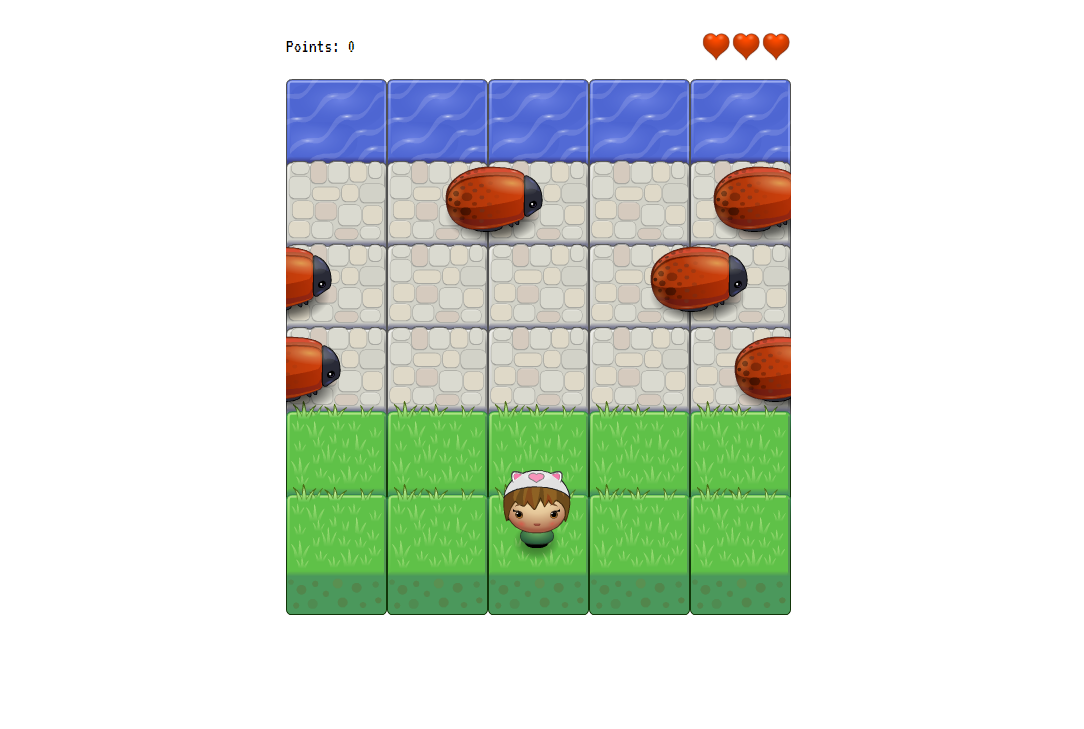
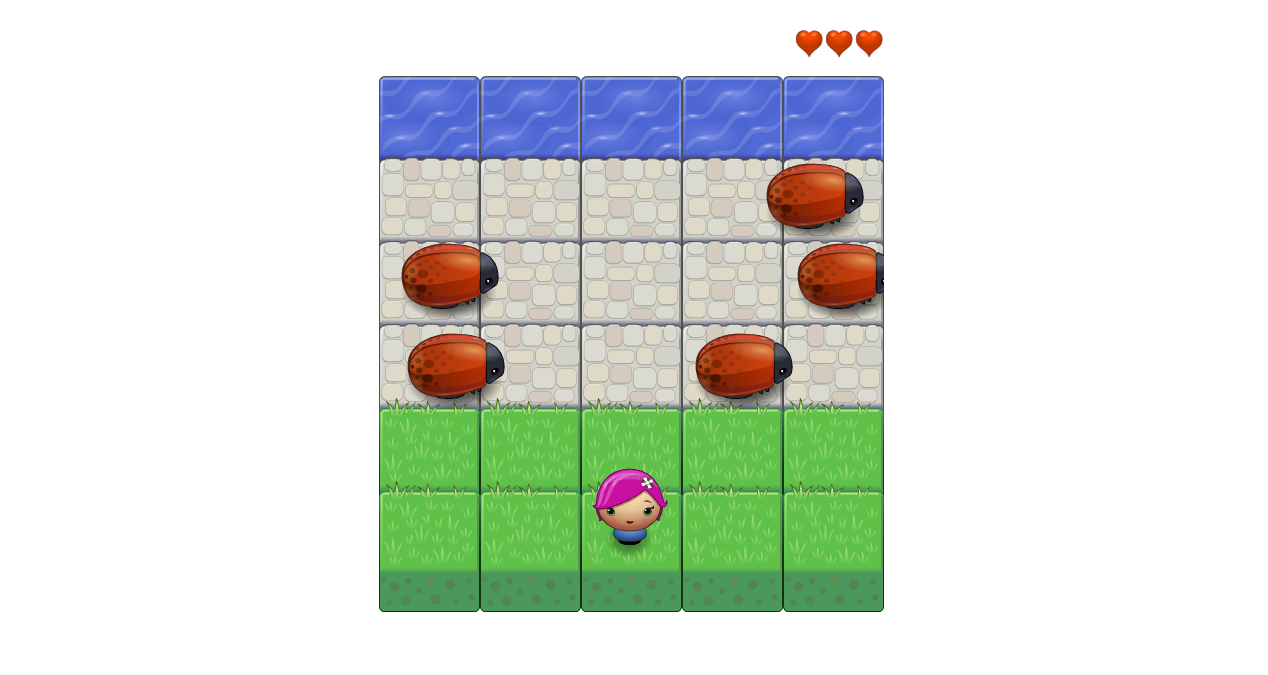
add char selection

Changed region(s): [[0.2435, 0.0311, 0.7306, 0.9333]]

diff --git a/js/app.js b/js/app.js
@@ -1,9 +1,4 @@
-// Points
-let displayScore = document.querySelector('.score');
-let score = 0;
-displayScore.innerText = 'Points: ' + score;
-
-//   -------------------------- ENEMIES ------------------------------
+//   -------------------------- ENEMIES ---------------------------
 
 var Enemy = function(x, y) {
     // Variables applied to each of our instances go here
@@ -35,8 +30,6 @@ Enemy.prototype.update = function(dt) {
        this.y < player.y + 60 &&
        this.y + 40 > player.y) {
         player.lives -= 1;
-//        gems = [];
-// the gems array should be empty if the player get bitten by bugs
 		player.reset(); // the position
         gems.reset();   //  their random position
     }
@@ -51,7 +44,7 @@ Enemy.prototype.render = function() {
     ctx.drawImage(Resources.get(this.sprite), this.x, this.y);
 };
 
-//   -------------------------- LIVES/HEARTS ------------------------------
+//   -------------------------- LIVES/HEARTS -----------------------
 
 function displayLives(num) {
   const lives = document.querySelector('.hearts');
@@ -119,35 +112,35 @@ Player.prototype.reset = function() {
     this.y = 380;
 }
 
-//   -------------------------- GEMS ------------------------------
+// ----------------------- CHOOSE PLAYER -----------------------
 
-var Gem = function(x, y, sprite, value) {
-    this.sprite = sprite;
-    this.x = x || Math.floor(Math.random() * 400);
-    this.y = y || Math.floor(Math.random() * 250);
-    this.value = value;
+// event listeners for player selection - radio buttons
+
+document.getElementById('cat').addEventListener('click', function() {
+    choosePlayer(this.value);
+})
+
+document.getElementById('pink').addEventListener('click', function() {
+    choosePlayer(this.value);
+})
+
+document.getElementById('princess').addEventListener('click', function() {
+    choosePlayer(this.value);
+})
+
+const choosePlayer = (selection) => {
+    switch(selection){
+        case "cat":
+            player.sprite = 'images/char-cat-girl.png';
+            break;
+        case "pink":
+            player.sprite = 'images/char-pink-girl.png';
+            break;
+        case "princess":
+            player.sprite = 'images/char-princess-girl.png';
+            break;
+    }
 }
-
-Gem.prototype.update = function() {
-    gems.forEach(function(gem) {
-        if (player.x == gem.x && player.y == gem.y) {
-            // update score and pop one gem from array
-            score += gem.value;
-            displayScore.innerText = 'Points: ' + score;
-            gems.pop();
-        }
-    })
-}
-
-Gem.prototype.render = function() {
-    ctx.drawImage(Resources.get(this.sprite), this.x, this.y);
-}
-
-Gem.prototype.reset = function() {
-    this.x = Math.floor(Math.random() * 350);
-    this.y = Math.floor(Math.random() * 250);
-}
-
 
 // --------------- Now instantiate your objects.
 
@@ -158,14 +151,8 @@ var enemy4 = new Enemy(-390, 140);
 var enemy5 = new Enemy(-490, 60);
 var enemy6 = new Enemy(-890, 230);
 
-const blueGem = new Gem(101, 215, 'images/Gem-Blue.png', 100);
-const greenGem = new Gem(404, 55, 'images/Gem-Green.png', 200);
-const orangeGem = new Gem(202, 135, 'images/Gem-Orange.png', 300);
-
 let allEnemies = [enemy1, enemy2, enemy3, enemy4, enemy5, enemy6];
 var player = new Player(200, 380);
-let gems = [blueGem, greenGem, orangeGem];
-
 
 // This listens for key presses and sends the keys to your Player.handleInput() method.
 document.addEventListener('keyup', function(e) {
@@ -188,7 +175,6 @@ gameStart.addEventListener('click', function() {
     document.getElementById('modal').classList.add('modal-hide');
     document.getElementById('overlay').classList.add('modal-hide');
 });
-
 
 // When the game is won, display the hidden modal with the congratulation message and play again button
 function gameWon() {

diff --git a/index.html b/index.html
@@ -9,27 +9,32 @@
 <body>
 
     <div class="score-panel">
-        <p class="score">Points: </p>
         <ul class="hearts"></ul>
     </div>
 
     <div class="modal" id="modal">
-        <h2>Selina's adventures</h2>
+        <h2>Summer adventures</h2>
         <div class="characters">
-            <img src="images/Gem-Blue.png" alt="blue gem" class="gems">
-            <img src="images/Gem-Green.png" alt="green gem" class="gems">
-            <img src="images/char-cat-girl.png" alt="Selina">
-            <img src="images/Gem-Blue.png" alt="blue gem" class="gems">
-            <img src="images/Gem-Orange.png" alt="orange gem" class="gems">
+            <img src="images/char-cat-girl.png" alt="cat girl">
+            <img src="images/char-pink-girl.png" alt="pink girl">
+            <img src="images/char-princess-girl.png" alt="princess girl">
         </div>
-        <p>Selina can move using the up, down, right and left arrows.</p>
-        <p>Steal the gems, reach the water and avoid getting bitten by the bugs.</p>
-        <p>You have 3 chances. Have fun!</p>
+        <div>
+            <input type="radio" name="choice" id="cat" value="cat"><span class="character-radio-button">Selina</span>
+
+            <input type="radio" name="choice" id="pink" value="pink"><span class="character-radio-button">Iwasawa</span>
+
+            <input type="radio" name="choice" id="princess" value="princess"><span class="character-radio-button">Leia</span>
+        </div>
+
+        <p>Select a character. You start with 3 lives.</p>
+        <p>To move use the up, down, right and left arrows.</p>
+        <p>Reach the water and avoid getting bitten by the bugs.</p>
         <button id="play-game" class="play-game">Play</button>
     </div>
 
     <div id="win" class="game-won modal modal-hide">
-        <h2>Congratulations, you stealthy kitten!</h2>
+        <h2>Congratulations, you won!</h2>
         <p>Would you like to try again?</p>
         <button id="replay" class="play-game">Play again</button>
     </div>

diff --git a/js/engine.js b/js/engine.js
@@ -94,6 +94,9 @@ var Engine = (function(global) {
             enemy.update(dt);
         });
         player.update();
+//        gems.forEach(function(gem) {
+//            gem.update(dt);
+//        });
     }
 
     /* This function initially draws the "game level", it will then call
@@ -154,6 +157,9 @@ var Engine = (function(global) {
         });
 
         player.render();
+//        gems.forEach(function(gem) {
+//            gem.update();
+//        });
     }
 
     /* This function does nothing but it could have been a good place to
@@ -174,9 +180,11 @@ var Engine = (function(global) {
         'images/grass-block.png',
         'images/enemy-bug.png',
         'images/char-cat-girl.png',
-        'images/Gem-Blue.png',
-        'images/Gem-Green.png',
-        'images/Gem-Orange.png'
+        'images/char-pink-girl.png',
+        'images/char-princess-girl.png'
+//        'images/Gem-Blue.png',
+//        'images/Gem-Green.png',
+//        'images/Gem-Orange.png'
     ]);
     Resources.onReady(init);
 

diff --git a/css/style.css b/css/style.css
@@ -14,9 +14,12 @@ body {
 .score-panel {
     width: 505px;
     margin: 0 auto -4rem;
+/*
     display: flex;
     justify-content: space-between;
     align-items: center;
+*/
+    text-align: right;
     font-size: 1.2em;
 }
 
@@ -35,7 +38,7 @@ body {
 .modal {
     font-size: 1.2em;
     width: 650px;
-    height: 500px;
+    height: 550px;
     background-color: #9dcab6;
     position: absolute;
     top: 50%;
@@ -45,14 +48,16 @@ body {
     padding: 20px 0;
 }
 
-.gems {
-    max-width: 80px;
-}
-
+/*
 .characters {
     display: flex;
     justify-content: center;
     align-items: center;
+}
+*/
+
+.character-radio-button {
+    padding-right: 20px;
 }
 
 .play-game {

diff --git a/README.md b/README.md
@@ -1,5 +1,26 @@
-# arcade-game-clone
+# Arcade Game clone
 
-![selina](https://user-images.githubusercontent.com/18640359/39970512-5fc0a0ae-56f5-11e8-95a0-37344e1cd689.PNG)
+## Description
+This is a replica of the classic arcade game Frogger.
+It is part of the Front-End Development Nanodegree program. 
 
-![game](https://user-images.githubusercontent.com/18640359/39970513-6127bcf2-56f5-11e8-842f-b1bc394a3881.PNG)
+## Run game
+- Clone or download the repository. open index.html in the browser of your choise
+- [Play here]()
+
+## How to play
+- Choose a character
+- Move the player using the up, right, down and left keyboard arrows
+- You start with three lives
+- Reach the water without being bitten by the bugs
+- After each collision with a bug, you lose one life and restart at the initial position
+- Game ends when you reach the water or lose all lives
+
+## Dependencies
+- HTML5 Canvas
+- Object-Oriented JavaScript
+- [Udacity arcade game starter code](https://github.com/udacity/frontend-nanodegree-arcade-game)
+
+![modal](https://user-images.githubusercontent.com/18640359/40382204-7eb51950-5e06-11e8-8b7e-87457921d5bf.PNG)
+
+![game](https://user-images.githubusercontent.com/18640359/40382205-7efc978a-5e06-11e8-866d-2823a442ce38.PNG)
